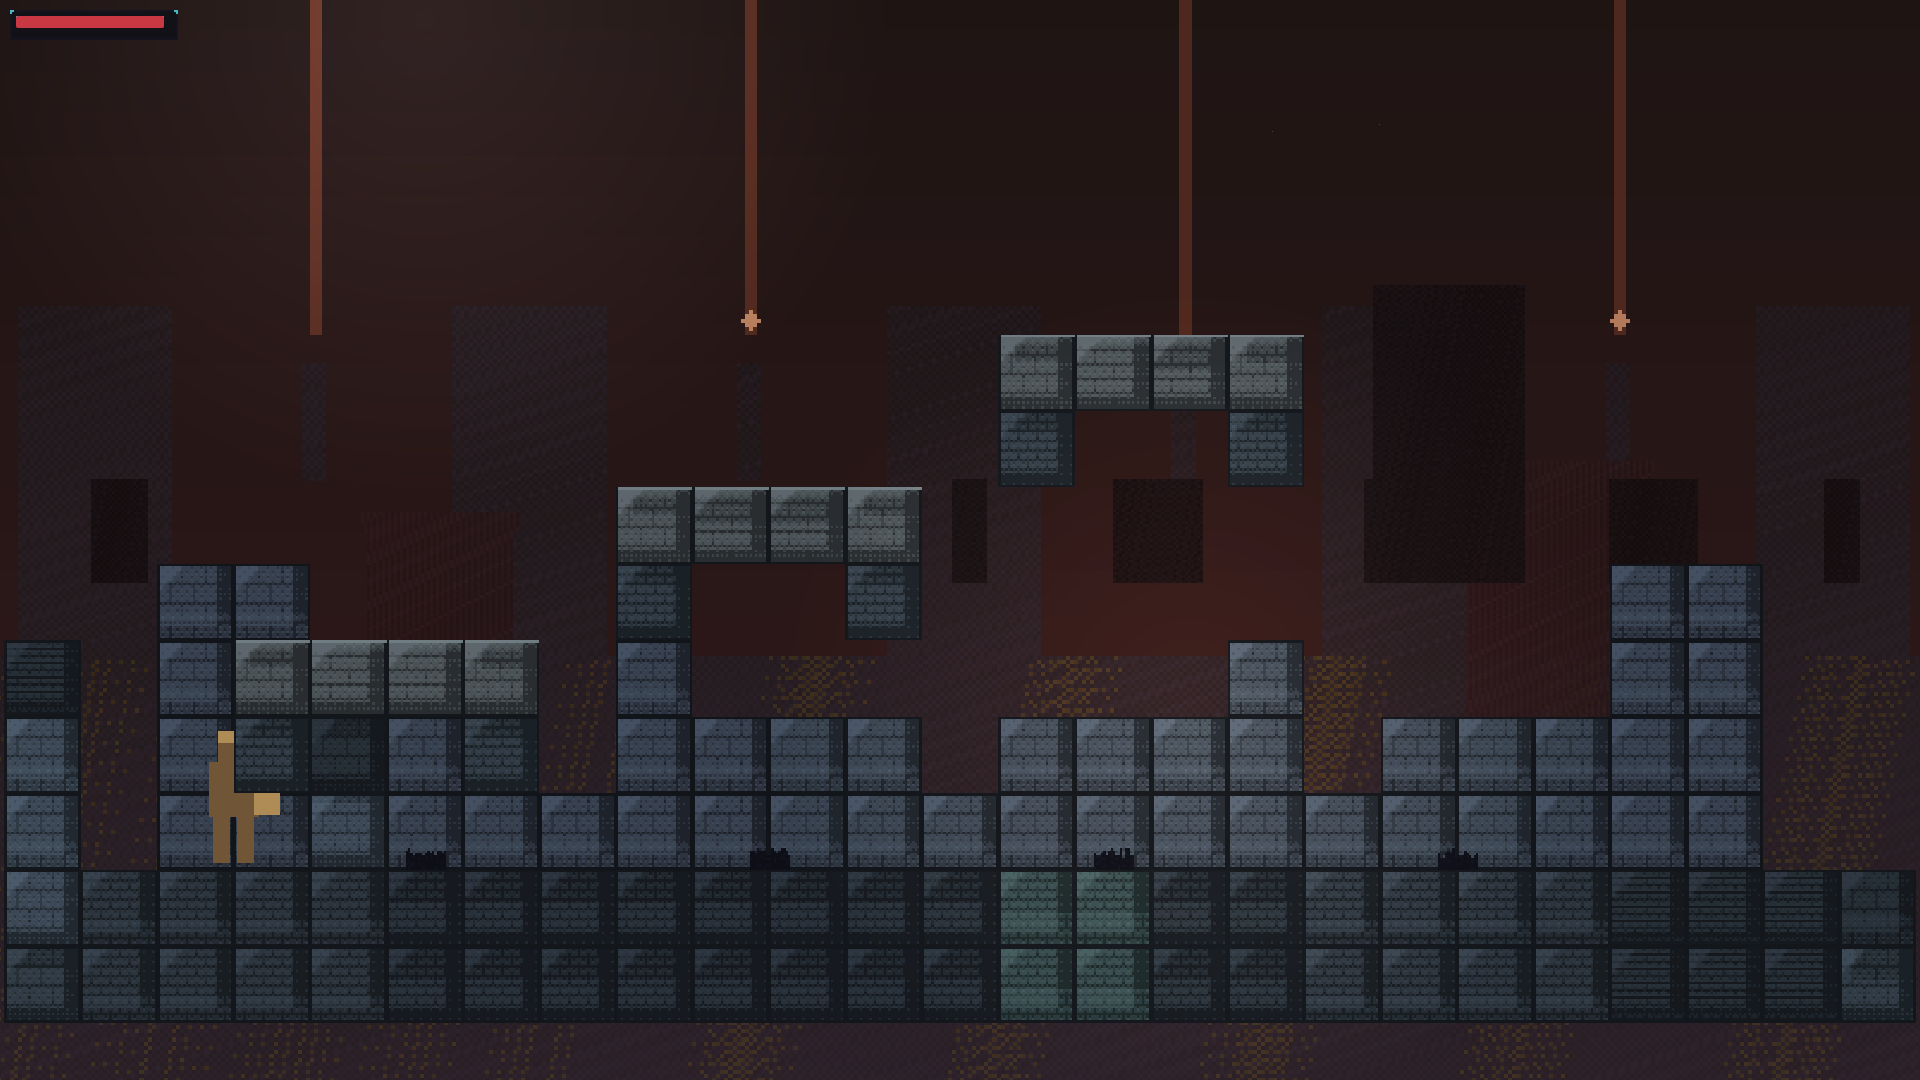
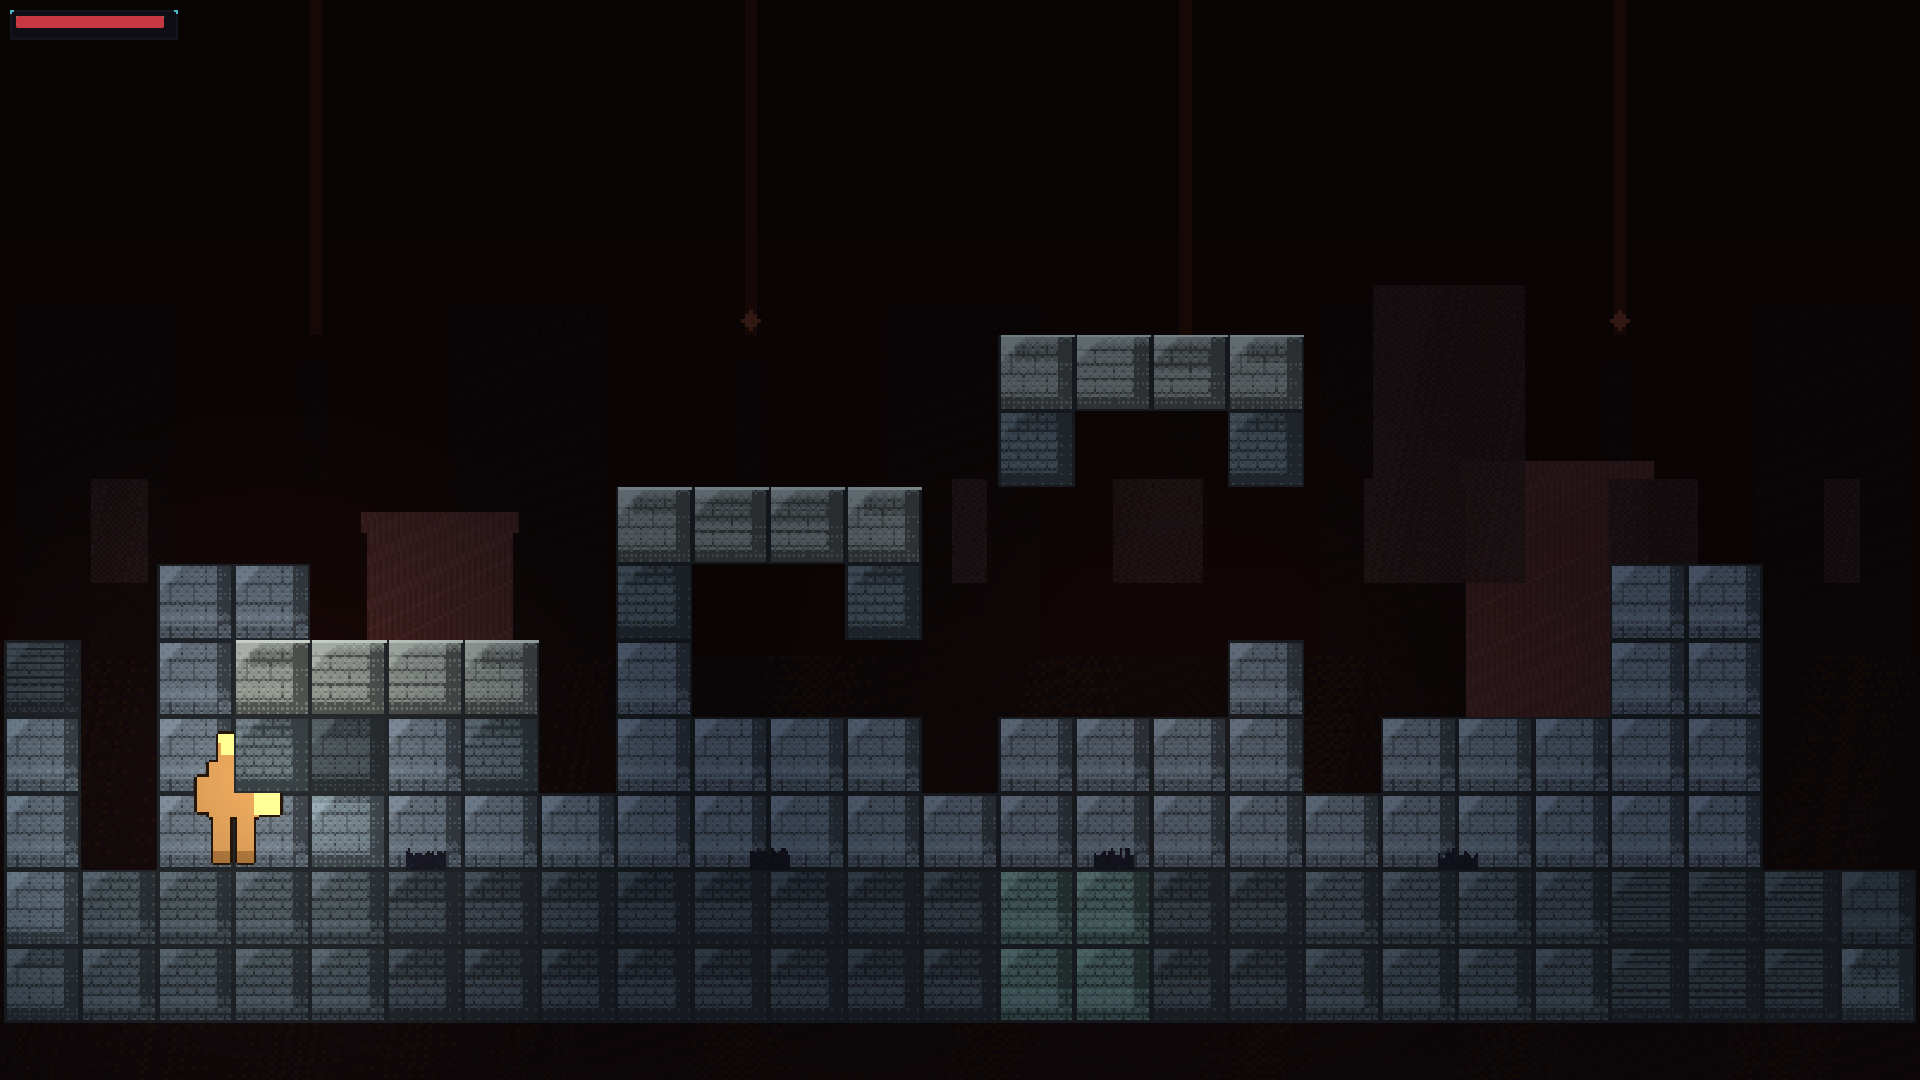
docs(review): spawn-frame composition resolved (40->100); diversity still unresolved
Add the exact scored spawn frame before/after and record that the scene-critic gate now fails
only on cross-room diversity (critiqueScreenshotDiversity), not the single spawn frame. Keep the
honest status: gameplay_screenshot_qa unresolved, 17/18 partial, approval pending.

diff --git a/review-artifacts/README.md b/review-artifacts/README.md
@@ -122,8 +122,9 @@ Capture path:
 1. Headless Godot smoke still hits `texture_2d_get` null (dummy renderer). Those runtime screenshot checks stay SOFT_FAIL. That is **not** the gate input.
 2. `captureGameplayScreenshots` then ran **windowed** Godot (`--rendering-driver opengl3`, `METROFORGE_CAPTURE=1`). Telemetry `strategy` is `windowed_gpu`. The scored frame is **not** blank (occupancy 100%, ~80 quantized colors).
 
-Reported gate numbers (`screenshot_critique.json` / `validation_report`) for this after run: occupancy **1.0**, uniqueColors **56**, lumaStdDev **7.35**, score **40**, issue wallpaper/low-contrast. The windowed (`windowed_gpu`, `opengl3`) frame is not blank.
+The scene-critic gate has **two** dimensions: the single scored spawn frame (`critiqueGameplayScreenshot`) and cross-room diversity (`critiqueScreenshotDiversity`).
 
-The `gameplay_screenshot_qa` gate is an **unresolved failure** — 17/18 is **partial** validation, not a pass. The scored frame is the start room at spawn; it trips the rule because `occupancy > 0.94` (almost no pure-black void — the warm soot backdrop counts as painted) **and** `lumaStdDev < 10` (low spatial contrast: a large uniform soot field above uniform gunmetal tiles). The band-framing pass raised occupancy (a tighter frame is fuller), so the heuristic still fails at 40. This is the same weak composition a human reviewer sees; moving the gate needs more spatial contrast / focal variation in the spawn frame, which is not yet done. Visual approval stays **pending**.
+- **Spawn frame — resolved.** A spawn focal light + receded backdrop took the scored start frame from score **40** (occupancy 1.0 / lumaStdDev 7.35, wallpaper/low-contrast) to score **100** (occupancy 0.40 / lumaStdDev 15.87): a warm focal pool on the courier, lit walkable surfaces separating from a receded dark backdrop, and real light→dark falloff — not black/noise added for the metric. See `spawn_before_after` in the artifacts. Because a heuristic score is not proof of human quality, please eyeball the frame directly.
+- **Cross-room diversity — still unresolved.** `critiqueScreenshotDiversity` still fails: more than half of the room pairs share a near-identical luma-grid signature (mean pairwise distance ~8.3; the pass rule needs <55% of pairs below distance 6). The rooms are still the same gunmetal-grid platformer look. This is the remaining reason the gate fails.
 
-Rooms 02–07, if scored independently with the same function, also trip wallpaper/low-contrast. That is extra context only. The recorded `gameplay_screenshot_qa` FAIL is from `screenshot_gameplay.png`.
+**Net: `gameplay_screenshot_qa` is still an unresolved failure and 17/18 is partial validation.** The failing dimension is now room variety, not the spawn frame. Visual approval stays **pending**; MASS / LARGE / RC blocked.
